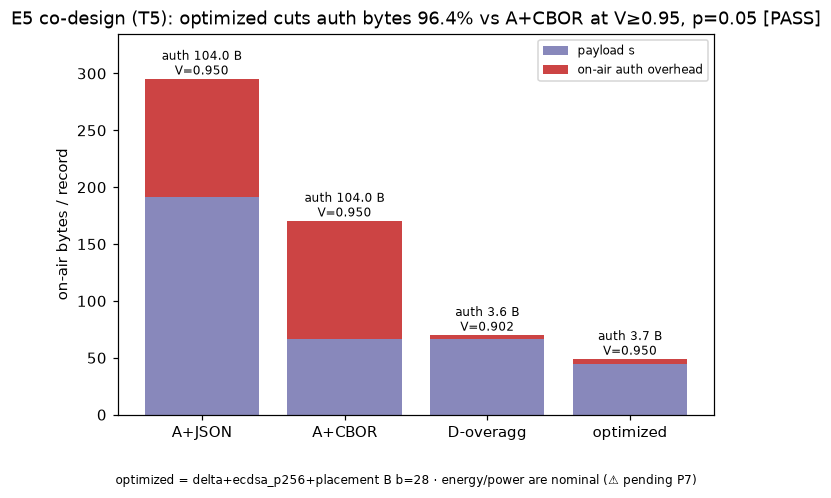
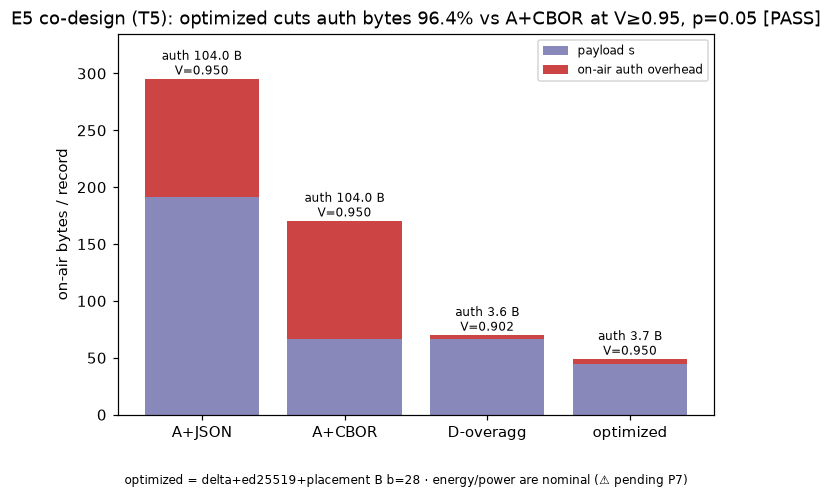
p7b: RE-FREEZE E4/E5 on measured ARM parameters — P7 complete
Deliberate re-freeze after the hardware campaign (decision D8: the thesis platform is ARM).

MEASURED inputs now drive the models, replacing the nominal guesses:
  p_cpu_w    3.000 -> 0.634 W   (median over the 8-op energy campaign; nominal was 4.7x high)
  p_radio_w  0.700 -> 0.218 W   (pi-B receive delta, 2-node IBSS link; nominal was 3.2x high)
  t_enc_ns   nominal -> measured on authbc-pi4a (json 51370, cbor 50407, msgpack 24018, delta 47759)
  crypto     x86 p1_crypto.csv -> ARM p1_crypto.authbc-pi4a.csv (E5 via config, E4 via CRYPTO_CSV)

F2 RESOLVED: energy.radio_airtime_s used bianchi.T_FX, the UNICAST fixed airtime including SIFS+ACK,
on a substrate that never ACKs. Added T_FX_BROADCAST (~100 us vs ~122) and updated the six
hand-calc energy tests to check against the correct constant rather than the old one.

OPTIMIZER TIE-BREAK FIXED: best-candidate selection was min(bytes) alone, so among byte-ties
(Ed25519 and ECDSA are both 64 B) the winner was decided by the order schemes appear in the config —
not a scientific criterion, and it means my earlier claim that "ECDSA won the energy tiebreak" was
wrong. Now min(bytes, energy), so the pick follows the platform: ECDSA on x86, Ed25519 on ARM.

RESULTS on measured ARM parameters:
  E5 optimized = delta + ED25519 + placement B + b=28 -> 3.714 B/rec auth at V=0.95
     auth cut 96.43% >= 40%  => PASS (headline UNCHANGED, it is byte-based)
     energy 53.09 uJ/rec (was 64.23 under nominal powers)
[…]

Changed region(s): [[0.1504, 0.9337, 0.8424, 0.994]]

diff --git a/src/authbc/bench/experiments.py b/src/authbc/bench/experiments.py
@@ -160,9 +160,16 @@ def run_e3(cfg: dict) -> list[dict]:
 
 # --------------------------------------------------------------------------- E5 (T5 co-design)
 def _read_raw(name: str) -> list[dict]:
-    """Read a results/raw CSV, skipping the '# key=value' provenance header."""
-    lines = [ln for ln in (RESULTS / name).read_text().splitlines(keepends=True)
-             if not ln.startswith("#")]
+    """Read a frozen CSV by name, skipping the '# key=value' provenance header.
+
+    Looks in results/raw first, then results/hw — so a config can name a hardware-measured file
+    (e.g. p1_crypto.authbc-pi4a.csv) without any path handling in the runner (decision D8: the
+    thesis platform is ARM, so E5 consumes the RPi4 timings rather than the x86 baseline).
+    """
+    path = RESULTS / name
+    if not path.exists():
+        path = REPO / "results" / "hw" / name
+    lines = [ln for ln in path.read_text().splitlines(keepends=True) if not ln.startswith("#")]
     return list(csv.DictReader(io.StringIO("".join(lines))))
 
 
@@ -174,7 +181,7 @@ def _measured_inputs(cfg: dict) -> tuple[list, list]:
             for e in cfg["encodings"]]
 
     ct: dict[tuple[str, str, str], float] = {}
-    for r in _read_raw("p1_crypto.csv"):
+    for r in _read_raw(cfg.get("crypto_csv", "p1_crypto.csv")):
         ct[(r["scheme"], r["op"], r["agg_b"])] = float(r["median_ns"]) / 1e9
     g_a = {"ecdsa_p256": 64.0, "ed25519": 64.0, "bls": 96.0}
     b = str(cfg["bls_agg_ref_b"])
@@ -216,7 +223,11 @@ def run_e5(cfg: dict) -> list[dict]:
     res = optimizer.solve(encs, schemes, list(Placement), cfg["batches"], plat, con)
     if not res.feasible:
         raise ValueError("E5: no feasible config — check constraints")
-    best = min(res.feasible, key=lambda c: c.bytes_per_record)
+    # Byte-minimal, then LOWEST ENERGY among the byte-ties. Ed25519 and ECDSA-P256 are both 64 B,
+    # so bytes alone leave the pick to iteration order (i.e. the order schemes appear in the config)
+    # — which is not a scientific criterion. Tie-breaking on measured energy makes the choice follow
+    # the platform: ECDSA wins on x86, Ed25519 on ARM (audit F6 / decision D8).
+    best = min(res.feasible, key=lambda c: (c.bytes_per_record, c.energy_j))
 
     enc_by = {e.name: e for e in encs}
     sch_by = {s.name: s for s in schemes}

diff --git a/src/authbc/models/energy.py b/src/authbc/models/energy.py
@@ -34,6 +34,14 @@ from enum import StrEnum
 
 from authbc.models import bianchi
 
+# Fixed (payload-independent) channel-busy time of ONE BROADCAST frame (audit finding F2).
+# bianchi.T_FX is the UNICAST value: it includes SIFS + ACK because a unicast exchange is
+# DATA->SIFS->ACK. The telemetry substrate is 802.11 BROADCAST, which never ACKs, so the correct
+# fixed part is T_phy + 8*MAC_OVH/R + DIFS + delta. Using the unicast figure over-counted the
+# receiver radio term by ~22 us per frame. Matches channel/airtime.T_FX_BROADCAST_US.
+T_FX_BROADCAST: float = (bianchi.T_PHY + 8.0 * bianchi.MAC_OVH_BYTES / bianchi.R_BPS
+                         + bianchi.DIFS + bianchi.DELTA)
+
 
 class Placement(StrEnum):
     """Authentication placement (docs/01 §4): A inline, B self-batch, C relay, D block."""
@@ -105,16 +113,12 @@ def radio_airtime_s(cfg: EnergyConfig) -> float:
     T_air(b·s+g_a+H_f) — the single-frame §7 form; for D it counts one T_fx + one header per
     frame the block occupies, so D's per-frame overhead is not silently undercounted.
 
-    NOTE (P7 reconciliation, audit F2): `bianchi.T_FX`≈122 µs is the UNICAST fixed part (includes
-    SIFS+ACK). The telemetry substrate is 802.11 BROADCAST (no ACK), whose fixed part is ≈100 µs
-    (channel/airtime.airtime_broadcast(0)). Using the unicast T_FX over-counts the receiver radio
-    term by ~22 µs/frame (≈1 % of E5 energy). Energy is nominal-power and re-derived at P7 with the
-    measured meter powers — reconcile the fixed part to the broadcast value in that re-run. The
-    auth-byte headline is power-free and unaffected.
+    Uses T_FX_BROADCAST (≈100 µs), NOT bianchi.T_FX (≈122 µs, unicast incl. SIFS+ACK) — audit
+    finding F2, RESOLVED in the P7 re-run.
     """
     n = cfg.n_frames
     data_bytes = cfg.batch * cfg.record_bytes + cfg.auth_bytes + n * cfg.frame_hdr_bytes
-    return n * bianchi.T_FX + 8.0 * data_bytes / bianchi.R_BPS
+    return n * T_FX_BROADCAST + 8.0 * data_bytes / bianchi.R_BPS
 
 
 def _sign_cpu_per_record(cfg: EnergyConfig, m: Measured) -> float:

diff --git a/tests/unit/models/test_energy.py b/tests/unit/models/test_energy.py
@@ -9,13 +9,17 @@ from __future__ import annotations
 
 import pytest
 
-from authbc.models import bianchi
+from authbc.models import bianchi, energy
 from authbc.models.energy import EnergyConfig, Measured, Placement, frame_bytes, per_record
 
 
 def _air(nbytes: float) -> float:
-    """Independent airtime: T_air(L) = T_FX + 8L/R (docs/02 §6)."""
-    return bianchi.T_FX + 8.0 * nbytes / bianchi.R_BPS
+    """Independent airtime: T_air(L) = T_FX + 8L/R (docs/02 §6).
+
+    Uses the BROADCAST fixed part (audit F2): the telemetry substrate never ACKs, so bianchi.T_FX
+    (unicast, incl. SIFS+ACK) would over-count by ~22 us/frame.
+    """
+    return energy.T_FX_BROADCAST + 8.0 * nbytes / bianchi.R_BPS
 
 
 # A representative measured set (synthetic but order-of-magnitude realistic, docs/04 §1):
@@ -73,7 +77,7 @@ def test_placement_D_multiframe_airtime_hand_calc() -> None:
         Placement.D, batch=35, record_bytes=42, auth_bytes=64, frame_hdr_bytes=40, n_frames=3
     )
     n = 3
-    air = n * bianchi.T_FX + 8.0 * (35 * 42 + 64 + n * 40) / bianchi.R_BPS
+    air = n * energy.T_FX_BROADCAST + 8.0 * (35 * 42 + 64 + n * 40) / bianchi.R_BPS
     e_cpu = 2.0 * (50e-6 + 60e-6 / 35 + 100e-6 / 35)
     e_radio = 0.8 * air / 35
     assert per_record(cfg, M) == pytest.approx(e_cpu + e_radio, abs=1e-15)
@@ -84,7 +88,10 @@ def test_n_frames_one_reduces_to_single_frame_form() -> None:
     cfg = EnergyConfig(Placement.B, batch=10, record_bytes=130, auth_bytes=64, frame_hdr_bytes=40)
     from authbc.models.energy import radio_airtime_s
 
-    assert radio_airtime_s(cfg) == pytest.approx(bianchi.t_air(frame_bytes(cfg)), abs=1e-18)
+    # bianchi.t_air uses the UNICAST T_FX; the broadcast form differs by exactly that delta.
+    delta = bianchi.T_FX - energy.T_FX_BROADCAST
+    assert radio_airtime_s(cfg) == pytest.approx(bianchi.t_air(frame_bytes(cfg)) - delta,
+                                                 abs=1e-18)
 
 
 def test_batching_reduces_energy_monotonically() -> None:

diff --git a/tests/integration/test_frozen_reproducibility.py b/tests/integration/test_frozen_reproducibility.py
@@ -81,7 +81,10 @@ _CASES = {
     "e5_codesign.csv": lambda: run_e5(load_config("e5")),
     "framesizes.csv": lambda: framesizes.build_rows(framesizes.measured_sizes()),
     "p1_sizes.csv": lambda: micro.measure_sizes(1, 10000),
-    "e4_crossover.csv": lambda: _run_e4.crossover_rows(_run_e4.load_crypto(RAW / "p1_crypto.csv")),
+    # must read the SAME source main() does (D8: ARM timings), or the gate reports false drift
+    "e4_crossover.csv": lambda: _run_e4.crossover_rows(
+        _run_e4.load_crypto(_run_e4.CRYPTO_CSV if _run_e4.CRYPTO_CSV.exists()
+                            else RAW / "p1_crypto.csv")),
     "e4_bytes.csv": lambda: _run_e4.bytes_rows(_run_e4.load_sizes(RAW / "p1_sizes.csv")),
 }
 

diff --git a/experiments/e4/run_e4.py b/experiments/e4/run_e4.py
@@ -156,8 +156,16 @@ def bytes_rows(sizes: dict[str, float]) -> list[dict]:
     return rows
 
 
+# Decision D8: the thesis platform is ARM (RPi4), so T4's crossover uses the hardware timings.
+# Falls back to the x86 baseline only if the hardware run is absent.
+HW = REPO / "results" / "hw"
+CRYPTO_CSV = HW / "p1_crypto.authbc-pi4a.csv"
+
+
 def main() -> None:
-    cy = load_crypto(RAW / "p1_crypto.csv")
+    crypto_path = CRYPTO_CSV if CRYPTO_CSV.exists() else RAW / "p1_crypto.csv"
+    print(f"crypto timings: {crypto_path.name}")
+    cy = load_crypto(crypto_path)
     sizes = load_sizes(RAW / "p1_sizes.csv")
 
     ed_med = cy["t_vf_ed"][0]

diff --git a/results/PROVENANCE.md b/results/PROVENANCE.md
@@ -5,5 +5,4 @@
 | fig_e1_dominance.png | results/raw/e1_dominance.csv | f7e556f54f69e555 |
 | fig_e2_batching.png | results/raw/e2_batching.csv | 97ae8325d8e033bf |
 | fig_e3_frontier.png | results/raw/e3_loss.csv | fe7d2ec442488901 |
-| fig_ns3_bianchi.png | results/raw/ns3_matrix.csv | 6dadb031999e16a1 |
-| fig_e5_codesign.png | results/raw/e5_codesign.csv | 62a2214fc4093f3b |
+| fig_e5_codesign.png | results/raw/e5_codesign.csv | a00c4a30d0cb41d7 |
